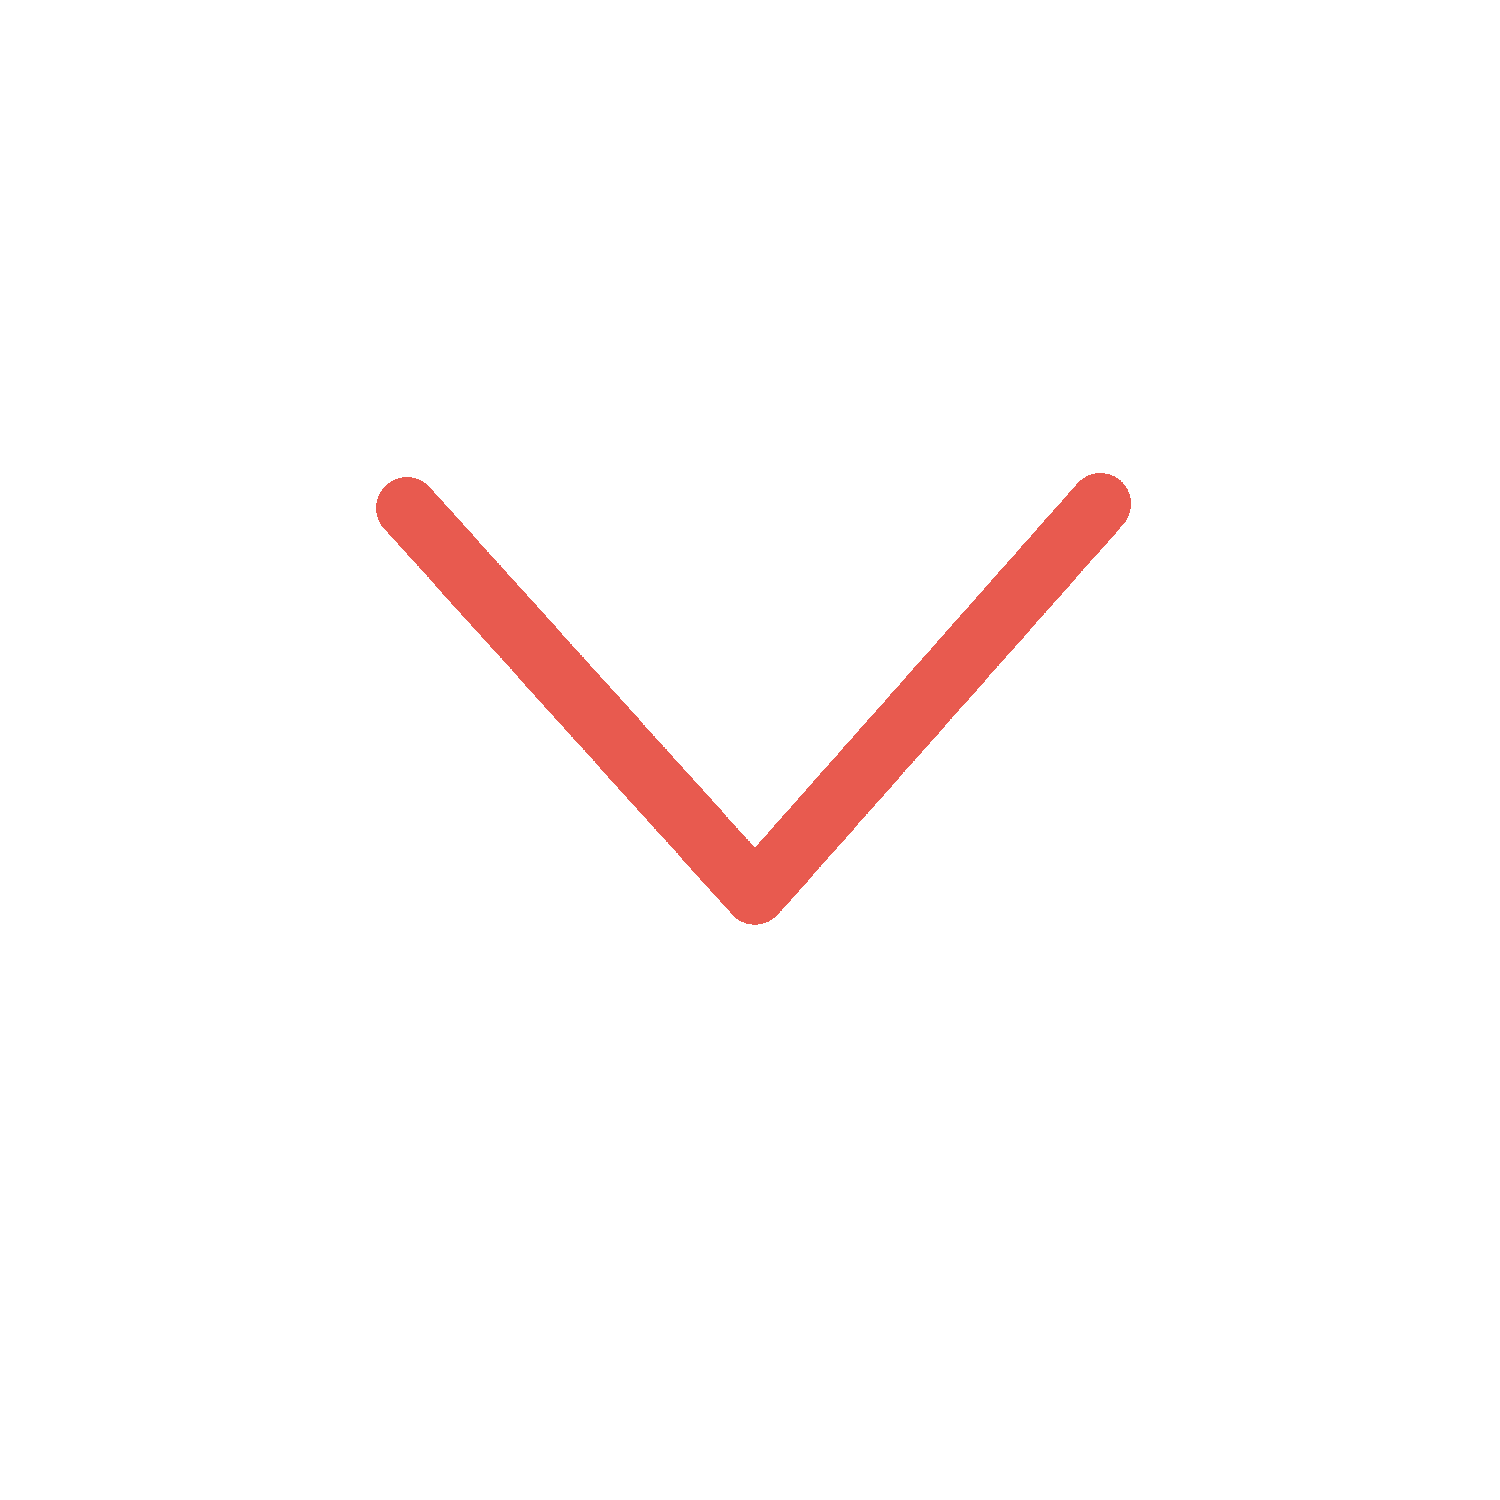
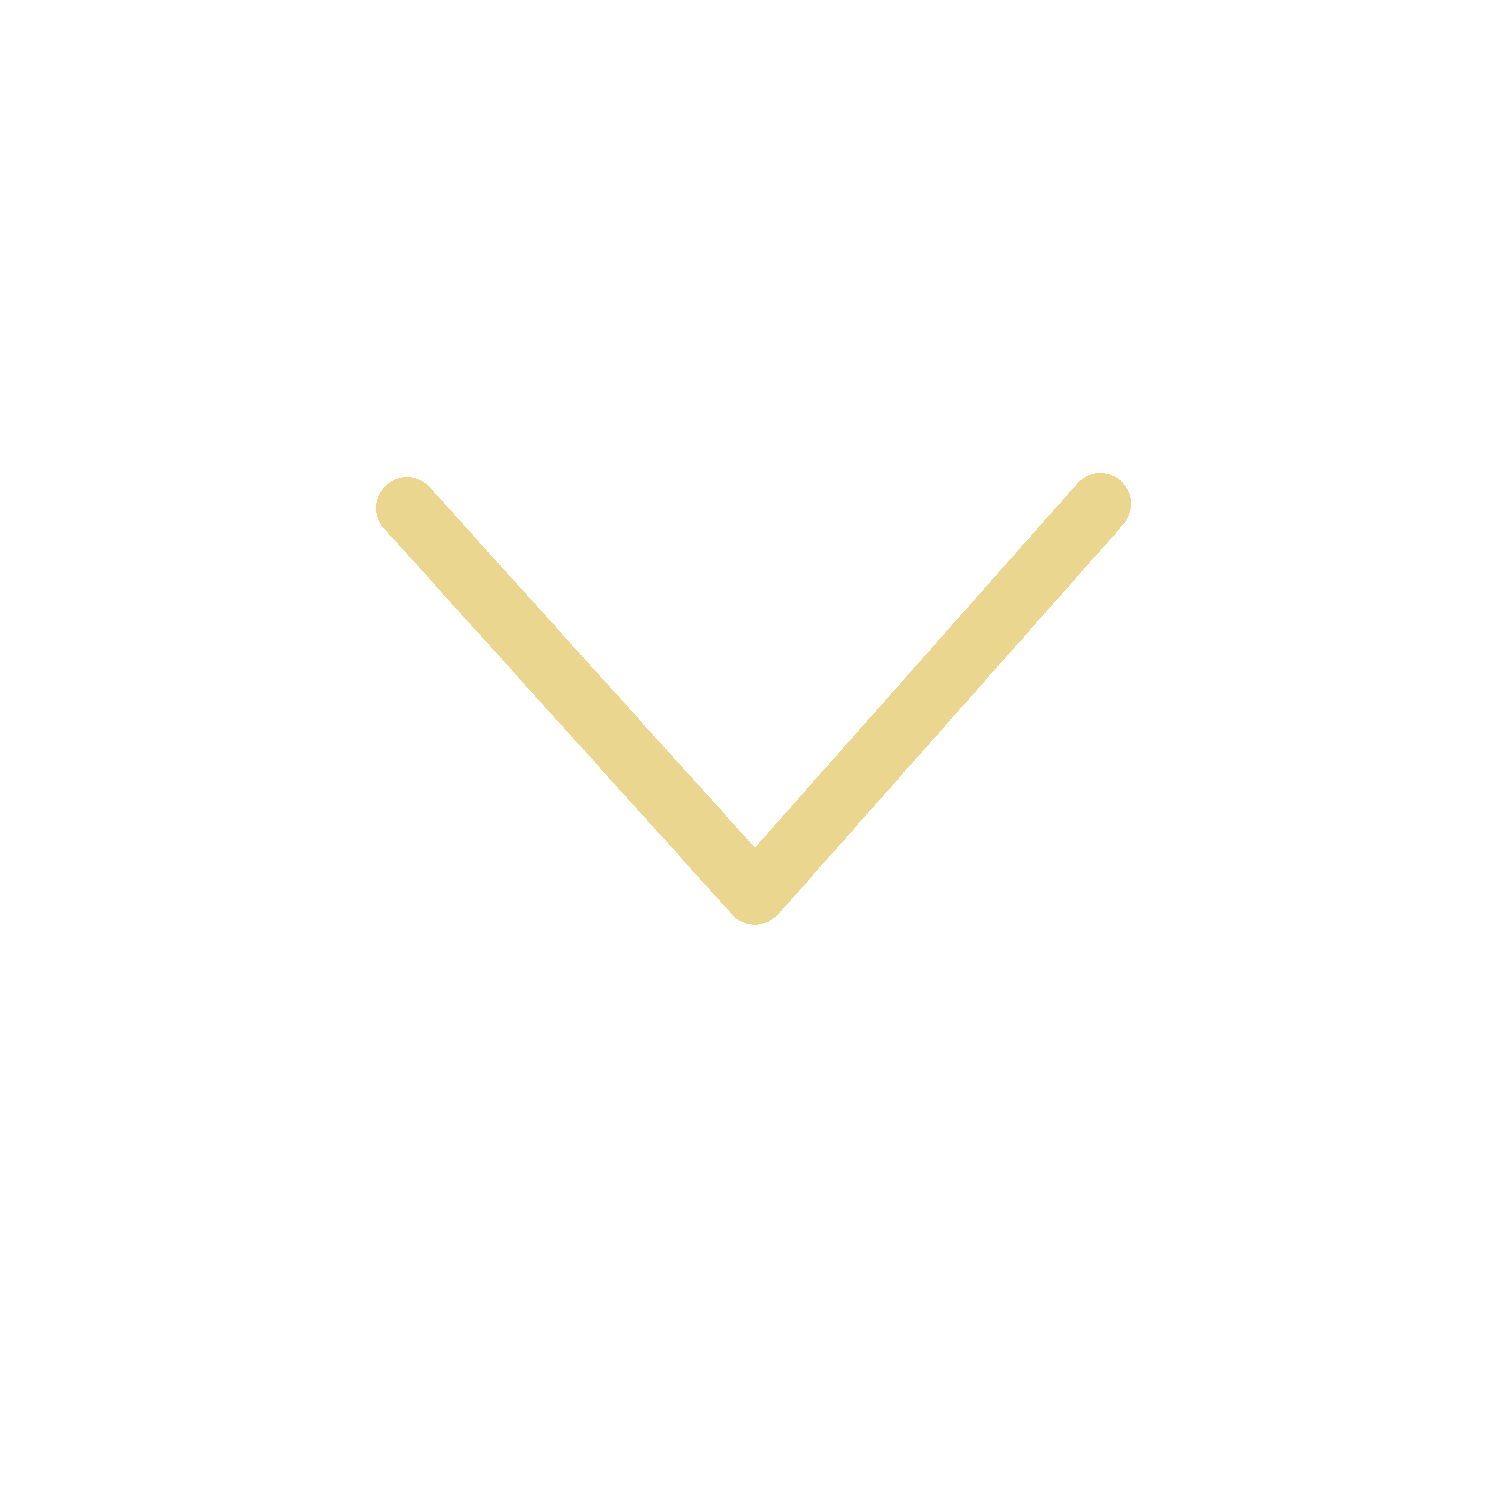
added slide down menu

Changed region(s): [[0.2453, 0.3067, 0.7667, 0.6133]]

diff --git a/css/chapters.css b/css/chapters.css
@@ -16,28 +16,72 @@ h1 {
 
 }
 
+h3 {
+    margin-bottom: 0;
+}
+
+.top-bar {
+    display: flex;
+    flex-direction: column;
+    align-items: center;
+    justify-content: center;
+    text-align: center;
+}
+
+.arrow {
+    min-height: 50px;
+    height: 8vh;
+}
+
+
+.simple-button {
+    background: none;
+    border: none;
+    padding: 10px;
+    outline: none;
+    color: inherit;
+    transition: transform 0.15s ease-in-out;
+}
+
+.simple-button:hover {
+    transform: scale(1.1);
+}
+
+/*
+.simple-button:focus,
+.simple-button:hover {
+    background: none;
+    color: inherit;
+    text-decoration: none;
+}
+*/
+
+
 #overlay-menu {
+    transform: translateY(-300%);
+    transition: transform 0.3s ease-in-out;
   position: absolute;
-  top: 30px;
-  background-color: white;
+  top: 15vh;
+  background-color: none;
   padding: 10px;
-  box-shadow: 0px 8px 16px 0px rgba(0,0,0,0.2);
 }
 
 #overlay-menu a {
   display: block;
+  text-weight: bold;
   text-decoration: none;
   padding: 8px;
-  color: black;
+  color: var(--beige);
 }
 
 #overlay-menu a:hover {
-  background-color: #ddd;
+  background-color: #756f59;
 }
 
 .hidden {
-  display: none;
+  transform: translateY(0);
 }
+
 
 
 :root {

diff --git a/html/ch1.html b/html/ch1.html
@@ -7,14 +7,21 @@
     <title>Sacred Geometry | Ch. 1</title>
 </head>
 <body>
-    <button id="menu-button">Menu</button>
-    <div id="overlay-menu" class="hidden">
-        <a href="./ch1.html">Chapter 1</a>
-        <a href="./ch2.html">Chapter 2</a>
-        <a href="./ch3.html">Chapter 3</a>
+    <div class="top-bar">
+        <h3>Ch. 1</h3>
+        <button id="menu-button" class="simple-button" class="down">
+            <img src="../img/arrow.png" class="arrow">
+        </button>
+        <div id="overlay-menu" class="hidden">
+            <a href="./ch1.html">Chapter 1</a>
+            <a href="./ch2.html">Chapter 2</a>
+            <a href="./ch3.html">Chapter 3</a>
+        </div>
     </div>
     <h1 id="top-text">Dive into a world of Sacred Geometry</h1>
-    <div></div>
+    <div class="bottom-bar">
+        <a href="./main.html">
+    </div>
     <script src="../javascript/ch1.js"></script>
 </body>
 </html>
